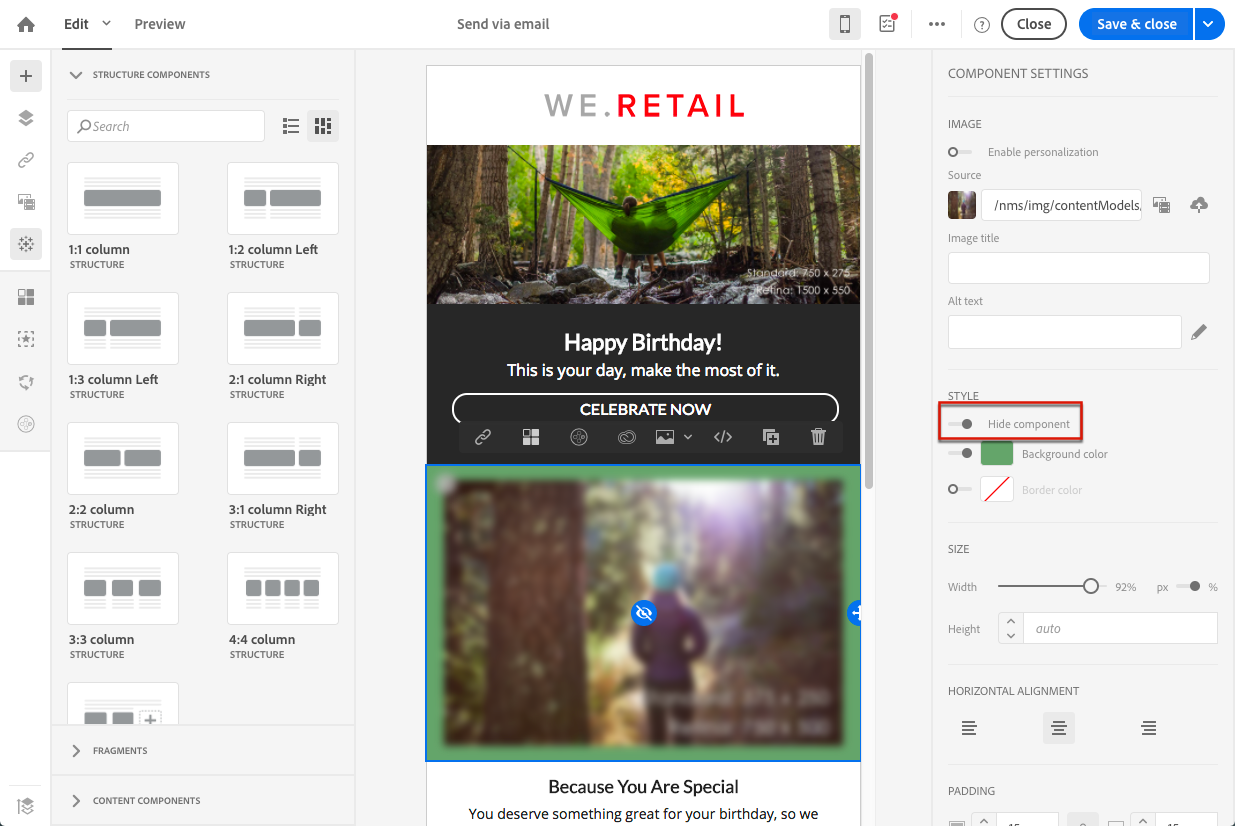
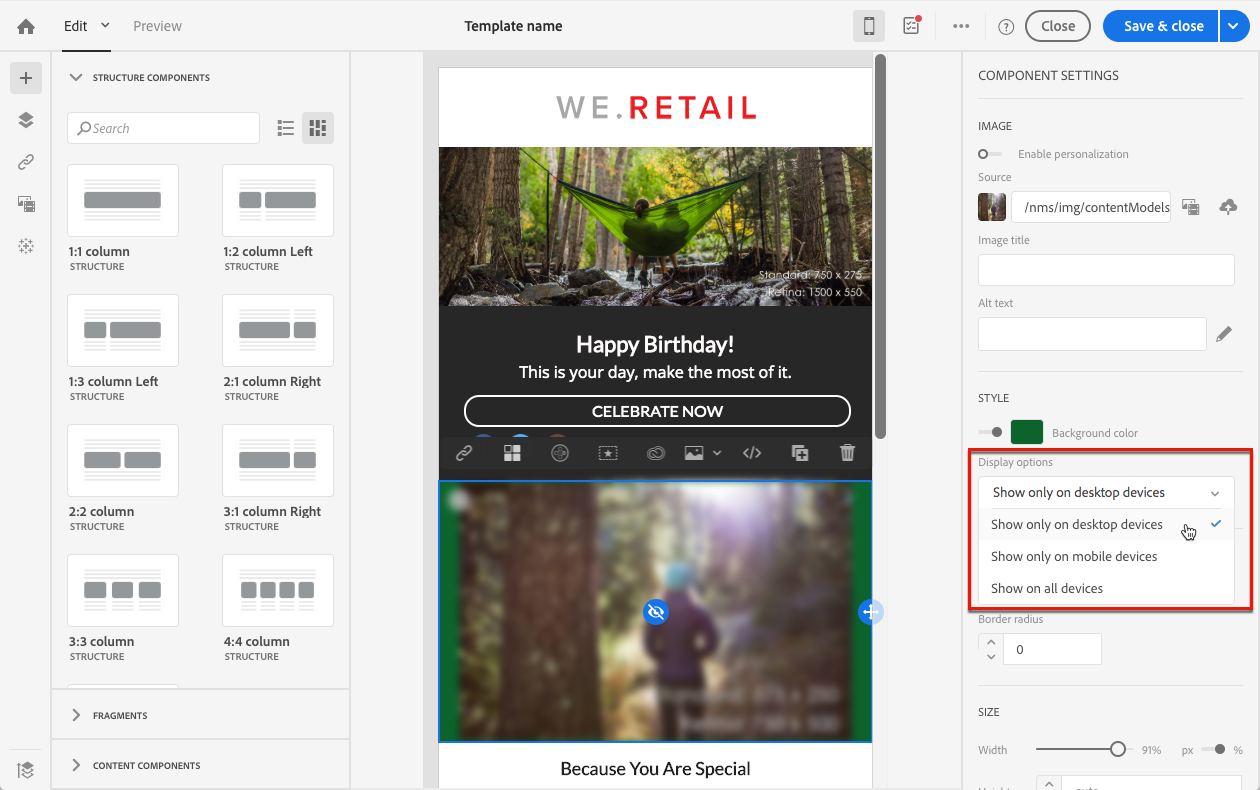
DOAC-3963

diff --git a/help/designing/using/about-email-content-design.md b/help/designing/using/about-email-content-design.md
@@ -362,7 +362,10 @@ All style options are available in mobile view. The Email Designer style setting
 
    ![](assets/email_designer_mobile_view_change.png)
 
-1. You can also hide a component. When checking this option, the corresponding component will be hidden when displayed on a mobile device.
+1. You can hide a component when displayed on a mobile device. To do this, select **[!UICONTROL Show only on desktop devices]** from the **[!UICONTROL Display options]**.
+You can also choose to hide this component on desktop devices, which means that it will be displayed on mobile devices only. To do this, select **[!UICONTROL Show only on mobile devices]**.
+For example, this option enables you to display a specific image on mobile devices and another image on desktop devices.
+You can either set this option from the mobile or desktop view.
 
    ![](assets/email_designer_mobile_hide.png)
 
